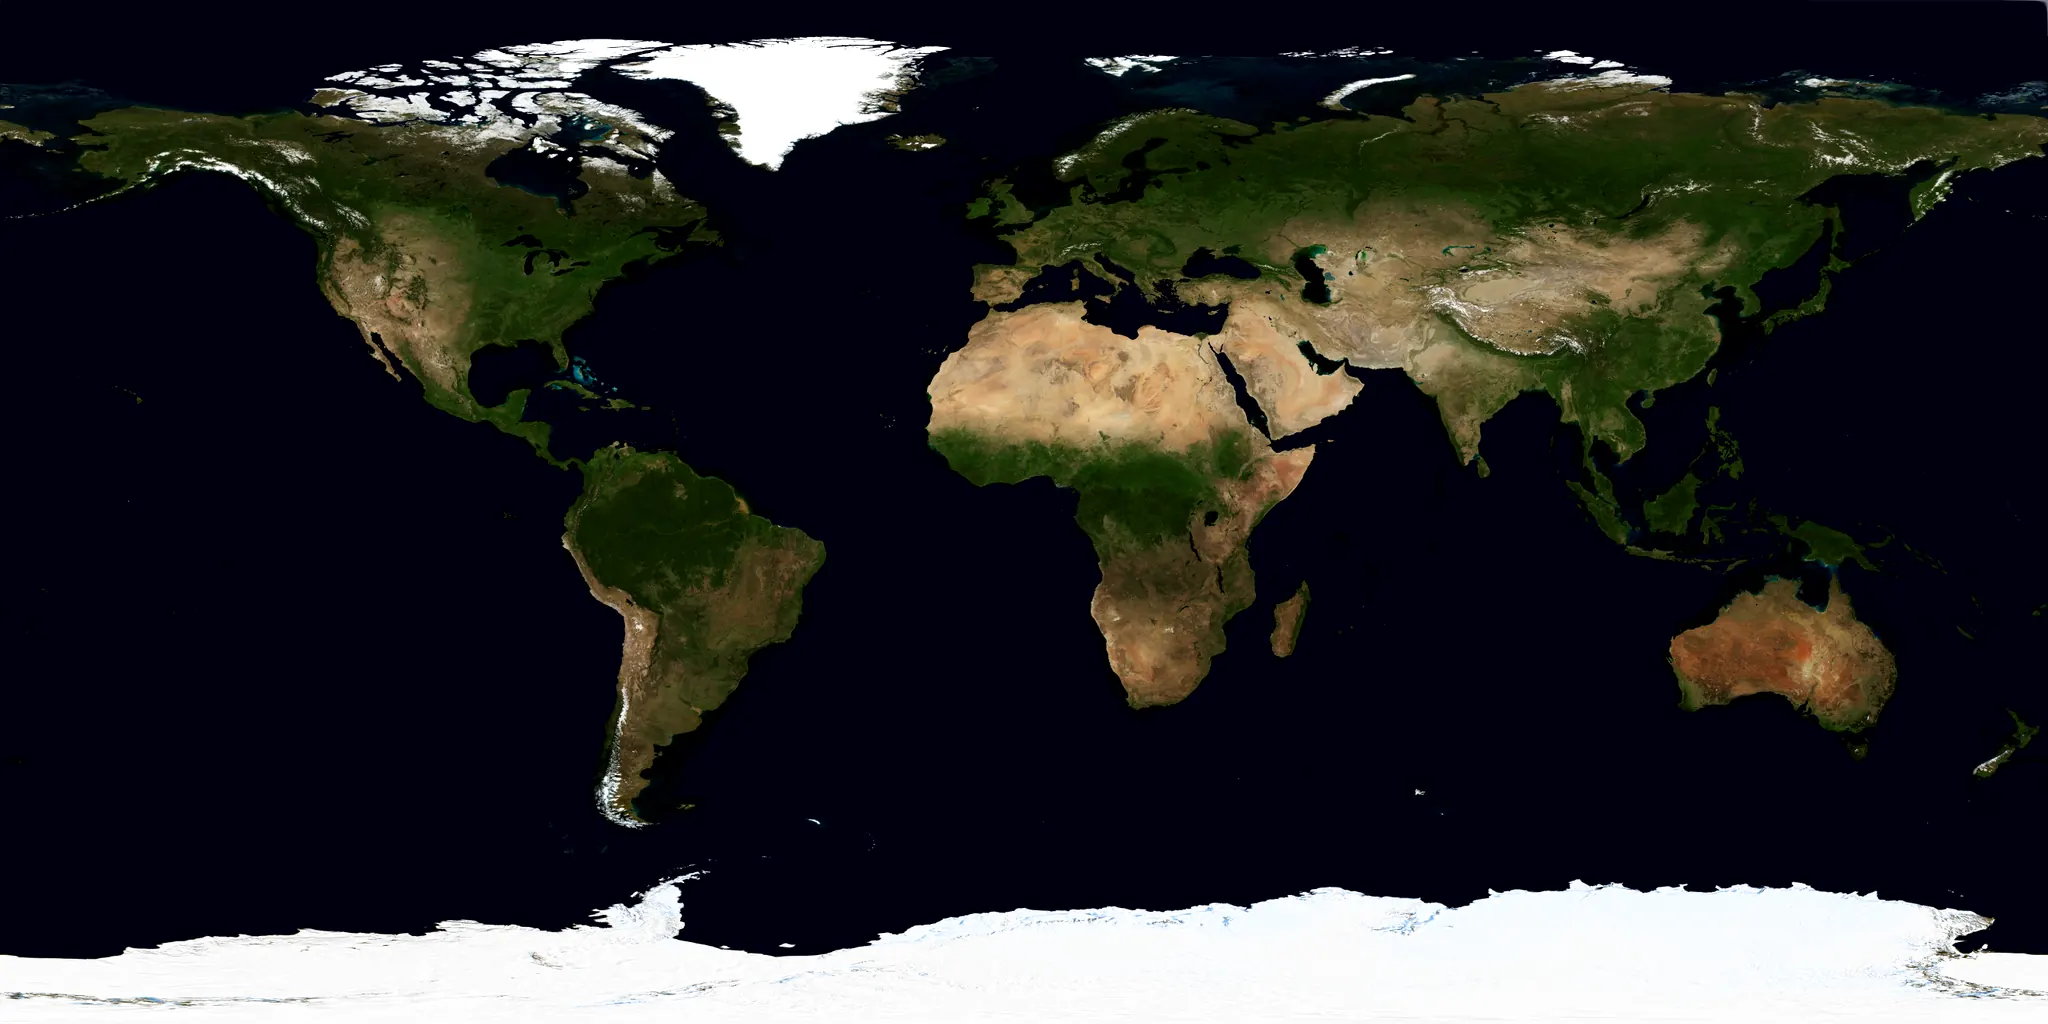
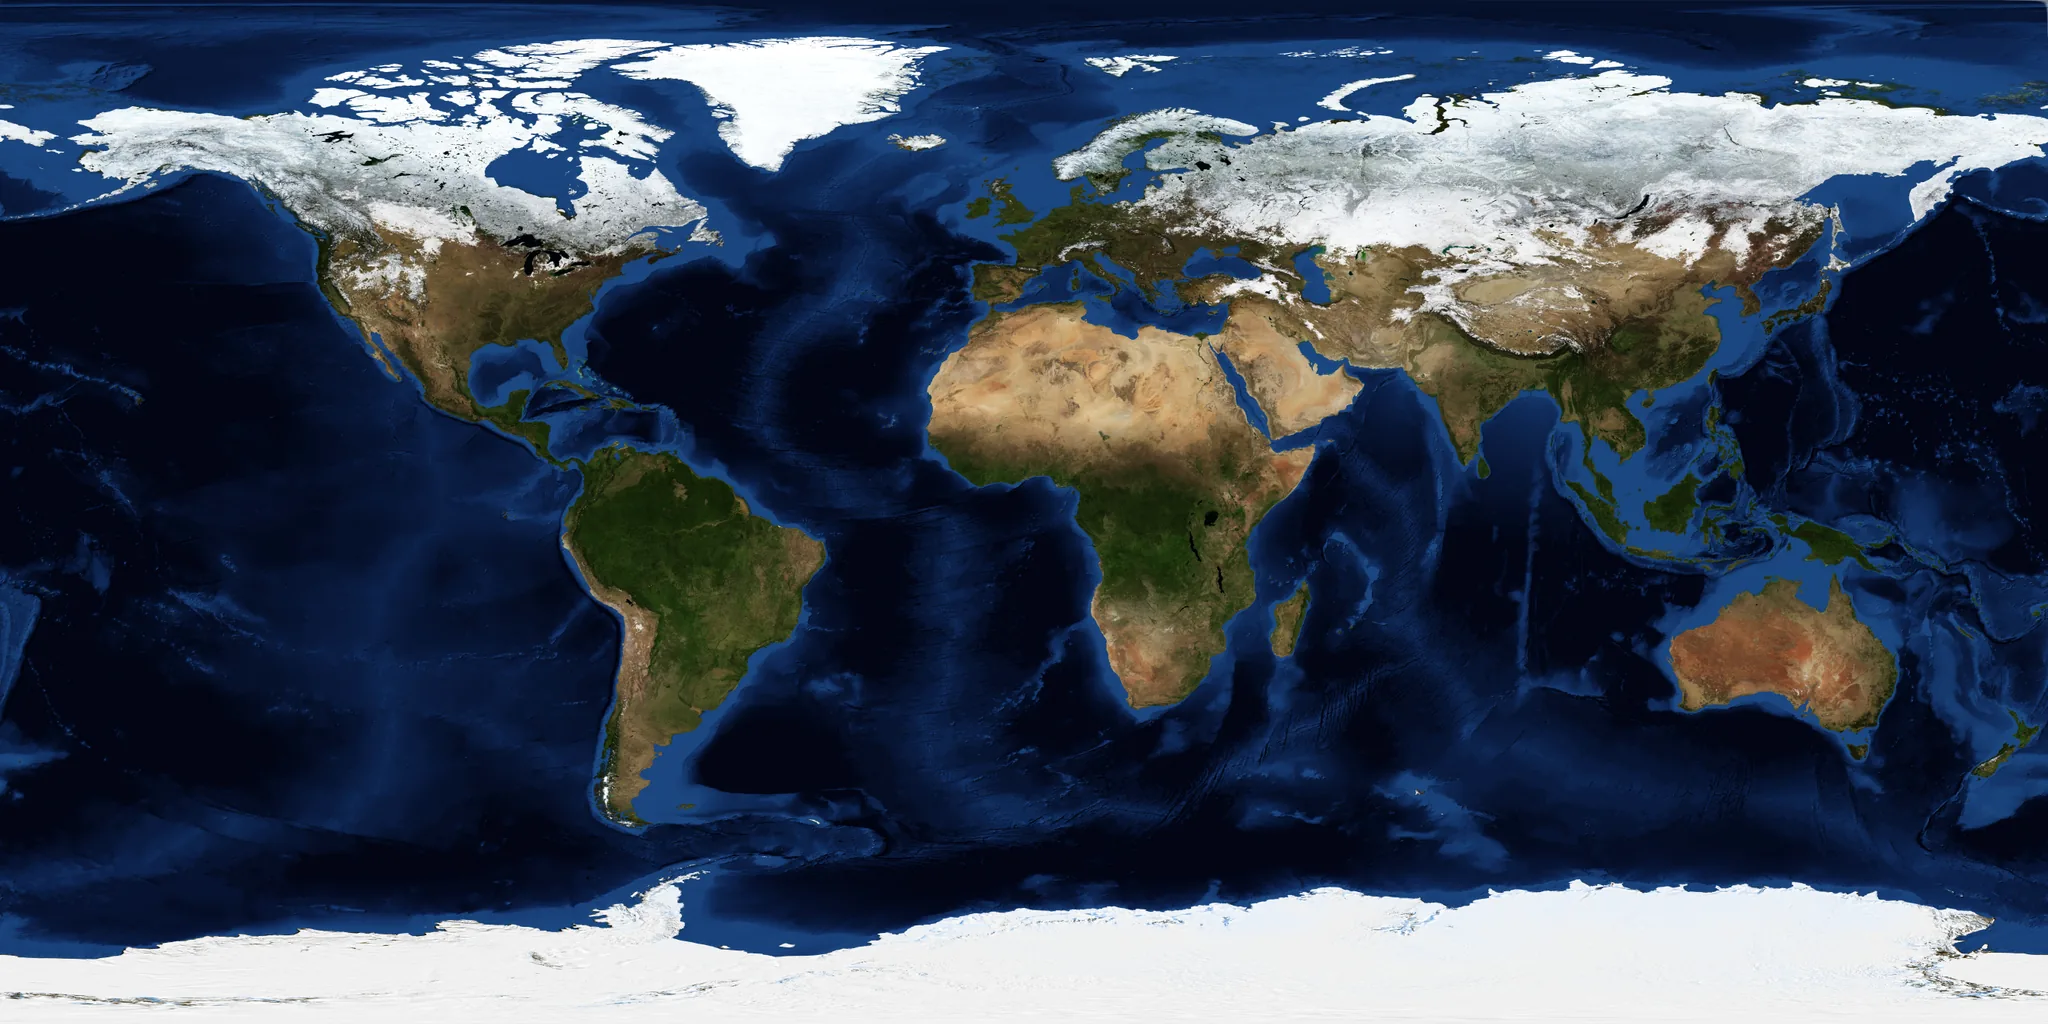
Real day map + real destination photos, faster clouds/sun, cinematic glint
- Earth day map re-sourced to NASA's topo/bathymetry Blue Marble variant
  (same 21600x10800 series, but with land relief shading baked into the
  color pixels instead of relying purely on procedural bump). Dialed back
  the just-added normalStrength/fine-bump values since the source now
  supplies real relief on its own.
- Destination photos are real Wikimedia Commons photographs (Beijing/Tokyo/
  Cairo, day+night, CC-licensed, credited in journey.ts), not generated —
  Higgsfield is paid and was disconnected anyway. DestinationSidebar's photo
  grid is live with real images for the first time.
- Clouds roughly 2x faster again, sun rotation ~2.4x faster (45s per sweep).
- Ocean specular reworked for a warmer, softer, three-lobe cinematic glint
  instead of a cool tight synthetic highlight.

diff --git a/src/data/journey.ts b/src/data/journey.ts
@@ -101,8 +101,9 @@ export const journey: Waypoint[] = [
     info: {
       description:
         'Столица, где императорские дворцы соседствуют с небоскрёбами, а древние хутуны прячутся в паре шагов от неоновых проспектов.',
-      // photos: intentionally unset — no real day/night pair generated yet;
-      // DestinationSidebar renders cleanly without them, same as `postcard`.
+      // Real photographs (Wikimedia Commons, CC-licensed — see credits below),
+      // not generated, per direct instruction while Higgsfield is unavailable.
+      photos: { day: '/assets/destinations/beijing/day.webp', night: '/assets/destinations/beijing/night.webp' },
       landmarks: ['Запретный город', 'Великая Китайская стена', 'Площадь Тяньаньмэнь'],
     },
   },
@@ -122,6 +123,7 @@ export const journey: Waypoint[] = [
     info: {
       description:
         'Город, где всё одновременно: храмы XVII века, самый плотный неон в мире и тишина садов в двух шагах от станции метро.',
+      photos: { day: '/assets/destinations/tokyo/day.webp', night: '/assets/destinations/tokyo/night.webp' },
       landmarks: ['Токийская башня', 'Храм Сэнсо-дзи', 'Перекрёсток Сибуя'],
     },
   },
@@ -141,10 +143,21 @@ export const journey: Waypoint[] = [
     info: {
       description:
         'Мегаполис на Ниле, где пирамидам уже четыре с половиной тысячи лет, а рынок Хан-эль-Халили торгуется точно так же, как и века назад.',
+      photos: { day: '/assets/destinations/cairo/day.webp', night: '/assets/destinations/cairo/night.webp' },
       landmarks: ['Пирамиды Гизы', 'Сфинкс', 'Каирский музей'],
     },
   },
 ];
+
+// Photo credits (Wikimedia Commons, all CC-licensed — required by Commons'
+// hosting policy regardless of category): Beijing day — "Beijing skyline.jpg"
+// (CC BY 2.0); Beijing night — "Beijing skyline at night.JPG" (Scott
+// Meltzer); Tokyo day — "Minato City, Tokyo, Japan.jpg"; Tokyo night —
+// "Tokyo Tower at night (1).jpg" (CC BY-SA 2.0); Cairo day — "Cairo skyline,
+// Nile River, Egypt.jpg" (Vyacheslav Argenberg, CC BY 4.0); Cairo night —
+// "Egypt, Night Cairo and river Nile, Zamalek city lights.jpg". Sourced
+// directly, not Higgsfield-generated, per direct instruction while the
+// Higgsfield MCP connection is unavailable — see ARCHITECTURE.md §K10.
 
 /** Far, distant framing for the very start of the journey (progress 0) — see
  *  EarthJourneyScene's auto-reveal beat and timeline.ts's leading band. */

diff --git a/src/three/earthShader.ts b/src/three/earthShader.ts
@@ -86,9 +86,10 @@ vec3 perturbNormal(vec3 N, vec3 V, vec2 uv) {
   float h0 = valueNoise(fineUv);
   float hX = valueNoise(fineUv + vec2(e, 0.0));
   float hY = valueNoise(fineUv + vec2(0.0, e));
-  // Raised from 0.6 — more pronounced surface relief, per direct feedback
-  // that the planet read as flat with no visible bumps.
-  vec2 fineTilt = vec2(h0 - hX, h0 - hY) * 0.85;
+  // Dialed back from 0.85 (§K9) — the day map now carries real baked relief
+  // (§K10), so this fine layer only needs to add micro-grain on top of it,
+  // not manufacture the relief itself.
+  vec2 fineTilt = vec2(h0 - hX, h0 - hY) * 0.5;
   vec3 combinedN = normalize(vec3(mapN.xy + fineTilt, mapN.z));
 
   vec3 q0 = dFdx(V);
@@ -173,16 +174,21 @@ void main() {
 
   // True view-dependent specular (Blinn-Phong half-vector) — a real ocean
   // glint that moves and appears/disappears as the camera orbits, not a
-  // fixed brightness pattern tied only to surface-vs-sun angle. Two lobes
+  // fixed brightness pattern tied only to surface-vs-sun angle. Three lobes
   // layered together read as glass/water catching direct sun rather than a
-  // single tight synthetic dot: a bright, tight core plus a softer, wider
-  // sheen spread around it.
+  // single tight synthetic dot: a bright core, a softer mid sheen, and a
+  // wide, faint outer halo for a bloom-like cinematic quality. Warmed off
+  // pure white toward gold — a "sun glint," not a clinical specular
+  // highlight — and the core exponent loosened slightly (140→110) so it
+  // reads as a soft flare rather than a hard pinpoint.
   vec3 halfVector = normalize(viewDir + normalize(sunDirection));
   float ndh = max(dot(N, halfVector), 0.0);
-  float specCore = pow(ndh, 140.0);
-  float specSheen = pow(ndh, 12.0);
-  color += vec3(0.85, 0.92, 1.0) * specCore * specMask * dayMix * 1.1;
-  color += vec3(0.75, 0.85, 1.0) * specSheen * specMask * dayMix * 0.22;
+  float specCore = pow(ndh, 110.0);
+  float specSheen = pow(ndh, 18.0);
+  float specHalo = pow(ndh, 3.5);
+  color += vec3(1.0, 0.93, 0.78) * specCore * specMask * dayMix * 1.15;
+  color += vec3(1.0, 0.9, 0.72) * specSheen * specMask * dayMix * 0.24;
+  color += vec3(1.0, 0.88, 0.68) * specHalo * specMask * dayMix * 0.05;
 
   // Faint cool fill so the unlit side reads as dark blue-black rather than
   // pure crushed black.

diff --git a/src/three/CloudLayer.tsx b/src/three/CloudLayer.tsx
@@ -30,16 +30,16 @@ interface CloudDeckConfig {
 // the planet (Part 3). Real multi-layer cloud photography would be nicer still,
 // but two decks of the one legitimate NASA-derived density map is a reasonable
 // depth cue without inventing cloud geography that doesn't exist.
-// Drift speeds raised ~6x and layerAlphaScale lowered — direct feedback that
-// clouds read as too large/opaque/static. The two decks still drift at
-// different (and opposite) rates so they visibly diverge rather than moving
-// as one slab.
+// Drift speeds raised ~6x in §K9, then roughly doubled again here (still more
+// dynamics requested) — direct feedback that clouds read as too
+// large/opaque/static, twice over. The two decks still drift at different
+// (and opposite) rates so they visibly diverge rather than moving as one slab.
 export const CLOUD_DECKS: Record<'low' | 'high', CloudDeckConfig> = {
-  low: { radius: 1.006, segments: 72, driftRadiansPerSecond: 0.01, initialRotation: 0, layerAlphaScale: 0.62, renderOrder: 1 },
+  low: { radius: 1.006, segments: 72, driftRadiansPerSecond: 0.02, initialRotation: 0, layerAlphaScale: 0.62, renderOrder: 1 },
   high: {
     radius: 1.014,
     segments: 56,
-    driftRadiansPerSecond: -0.006,
+    driftRadiansPerSecond: -0.012,
     initialRotation: 1.7,
     layerAlphaScale: 0.4,
     renderOrder: 2,

diff --git a/src/three/sunDirection.ts b/src/three/sunDirection.ts
@@ -11,11 +11,11 @@ import { Vector3 } from 'three';
 export const SUN_DIRECTION = new Vector3(-2, 0.8, 2.2).normalize();
 
 const ROTATION_AXIS = new Vector3(0, 1, 0);
-// A full terminator sweep every ~110s — slow enough to still read as
-// "physically grounded lighting," fast enough that its movement is clearly
-// visible within a normal viewing/scroll session, not a needle that never
-// seems to move.
-const RADIANS_PER_SECOND = (Math.PI * 2) / 110;
+// A full terminator sweep every ~45s (raised from ~110s in §K9 — direct
+// follow-up feedback asking for more dynamics) — still slow enough to read
+// as "lighting," not a strobe, but now clearly moving within any short
+// viewing window instead of needing patience to notice.
+const RADIANS_PER_SECOND = (Math.PI * 2) / 45;
 
 /**
  * Advances SUN_DIRECTION around Earth's polar axis, mutating the existing

diff --git a/src/three/Earth.tsx b/src/three/Earth.tsx
@@ -46,7 +46,11 @@ export function Earth({ meshRef, materialRef }: EarthProps) {
       normalMap: { value: normalMap },
       specularMap: { value: specularMap },
       sunDirection: { value: SUN_DIRECTION },
-      normalStrength: { value: 0.55 },
+      // Dialed back from 0.55 (§K9) now that the day map itself carries real
+      // baked shaded-relief (§K10's topo/bathymetry source) — stacking a
+      // strong procedural bump on top of already-visible real terrain read as
+      // over-noisy rather than more detailed.
+      normalStrength: { value: 0.42 },
       uOpacity: { value: 0 },
       uTime: { value: 0 },
       // Regional detail insert (three/RegionalDetail.tsx) — dayMap is a safe

diff --git a/ARCHITECTURE.md b/ARCHITECTURE.md
@@ -405,6 +405,18 @@ Direct feedback on K8's marker redesign and the overall Earth look, addressed wi
 - **Earth grading, second pass — brighter water, more relief.** Direct feedback that water still read as too dark and the surface too flat despite the earlier grading commits (`5cd2fe3`/`8f7c0bf`). Pushed further in `earthShader.ts`/`Earth.tsx`, all numeric tuning (no new texture assets — see below for why): the exposure curve's `k` rose `8.0 → 10.0`; the blue-push additive terms rose `2.2 → 2.6` (B) and `1.0 → 1.3` (G); the saturation-lift mix ratio rose `1.5 → 1.65`; the fine bump-noise tilt multiplier rose `0.6 → 0.85`; and `normalStrength` (the coarse/fine normal-perturbation blend weight) rose `0.35 → 0.55` for visibly more surface relief at this camera range. **Did not re-source the texture set itself** — no image-generation tool was available this session (Higgsfield MCP disconnected) and no image-processing pipeline was staged for a new download+re-encode pass (§ Earth Textures describes the `sharp`-based one-time process used previously); shader-side grading was judged the higher-leverage, zero-new-asset lever for this specific feedback, consistent with how the water-color/exposure issues were already being iterated on before this pass. Revisit with a genuinely different source texture if this grading pass still isn't enough once it's actually seen rendered.
 - **Not done this pass: destination photos for `DestinationSidebar`.** Requested alongside the above, but blocked on the same missing Higgsfield connection — no photo-sourcing mechanism (generation or otherwise) was exercised. `CityInfo.photos` (§K8) stays unset for all three test waypoints; the sidebar already renders correctly without it.
 
+## K10. Real day map (topo/bathymetry NASA source), real destination photos, and a second dynamics pass (this pass)
+
+Direct follow-up feedback: stop trying to fix the day map through shader grading alone and source a genuinely different texture; source real photos from the web instead of paying for Higgsfield generation; push clouds/sun/specular further still.
+
+- **Earth day map re-sourced again — NASA's Blue Marble *topo/bathymetry* variant, not the flat true-color one.** The previous day map (`world.200412.3x21600x10800`-family, true-color only) was replaced with `world.topo.bathy.200412.3x21600x10800.jpg` (same NASA Earth Observatory series, same 21600×10800 native resolution, still public domain) — the key difference is that this variant has land relief **shading baked directly into the color pixels** (visible mountain ranges, canyon shadow) and ocean bathymetry depth-tinting, rather than being a flat aerial-photo-style composite that depends entirely on the shader's own normal-map/procedural-bump trick to look three-dimensional. Downloaded via `curl` from `eoimages.gsfc.nasa.gov`, resized with a temporary `sharp` dev dependency (installed with `--no-save`, removed again after processing — same one-shot pattern as the original texture pass, see § Earth Textures) to `16000×8000` desktop / `2048×1024` mobile, re-encoded to webp. Desktop file grew from 3.68MB to 6.3MB (quality dropped from the default 82 to 74 specifically to control this — the topo/bathy source's extra relief detail compresses meaningfully worse than the flat original) — accepted per the project's existing "quality over saving another 500KB" precedent (§ Earth Textures, re: the cloud texture), since this is lazy-loaded behind the Interactive-mode bundle either way.
+  - **Because the new source already supplies real baked relief, this pass also *reduced* two of §K9's just-added bump-strength values** (`normalStrength: 0.55→0.42`, the fine-noise `fineTilt` multiplier `0.85→0.5`) — stacking §K9's strong procedural bump (added specifically to compensate for a flat source) on top of a source that now has its *own* real relief was judged likely to read as over-noisy rather than more detailed. This is a prediction, not a verified visual call (no browser available this session, as always — see below); worth a real look before tuning further.
+- **Destination photos — real Wikimedia Commons photographs, not generated.** Direct instruction to skip Higgsfield (paid, and disconnected this session anyway) and just source real images. Six photos (`WebSearch` → Wikimedia Commons file pages → `Special:FilePath/<name>` direct-download redirect → `curl`), resized to 900px-wide webp via the same temporary `sharp` pass, placed at `public/assets/destinations/<waypointId>/{day,night}.webp` exactly per the path convention §9 already specified for this purpose. All Wikimedia Commons uploads are required to carry a free license (CC BY / CC BY-SA / public domain) as a hosting-policy precondition, so none of these needed individual per-file license verification beyond confirming they're actually hosted there; specific file names and photographers are credited in a comment block at the bottom of `data/journey.ts` for attribution. `CityInfo.photos` is now populated for all three test waypoints (Beijing/Tokyo/Cairo) — `DestinationSidebar`'s photo grid, built already in §K8 but never exercised with real images until now, is live for the first time.
+- **Cloud drift speed roughly doubled again** (`0.01→0.02` / `-0.006→-0.012` rad/s) on top of §K9's already-6× increase — "still not fast enough" follow-up feedback.
+- **Sun rotation roughly 2.4× faster** (a full sweep every ~110s → ~45s, `sunDirection.ts`) — same follow-up ask ("the sun too").
+- **Ocean specular reworked for a "cinematic" glint, not just a brighter one.** `earthShader.ts`: the two-lobe highlight became three (`specCore`/`specSheen`/new `specHalo` at a much wider `pow(ndh, 3.5)` falloff, for a faint bloom-like spread around the direct glint), the core exponent loosened `140→110` (softer, less pinpoint-laser), and all three lobes' color shifted from a cool near-white/blue (`~(0.85,0.92,1.0)`) to a warm gold (`~(1.0,0.9,0.75)` family) — "natural, cinematic" read as *warm sunlight catching water*, not a synthetic specular dot, which a cool-toned highlight works against regardless of how bright it is.
+- **Still not independently verified in a browser** — same standing limitation as every prior pass in this document (no headless browser or screenshot tool available in this environment). Everything above is a reasoned, individually-buildable change, not a confirmed-good render; the normalStrength reduction in particular is a prediction about how the new source and the old bump values interact, worth revisiting once actually seen.
+
 ## 7. GSAP / ScrollTrigger Architecture (implemented for what exists)
 
 - `gsap/registerGsap.ts` registers `ScrollTrigger` and `@gsap/react`'s `useGSAP` once, at app entry.
